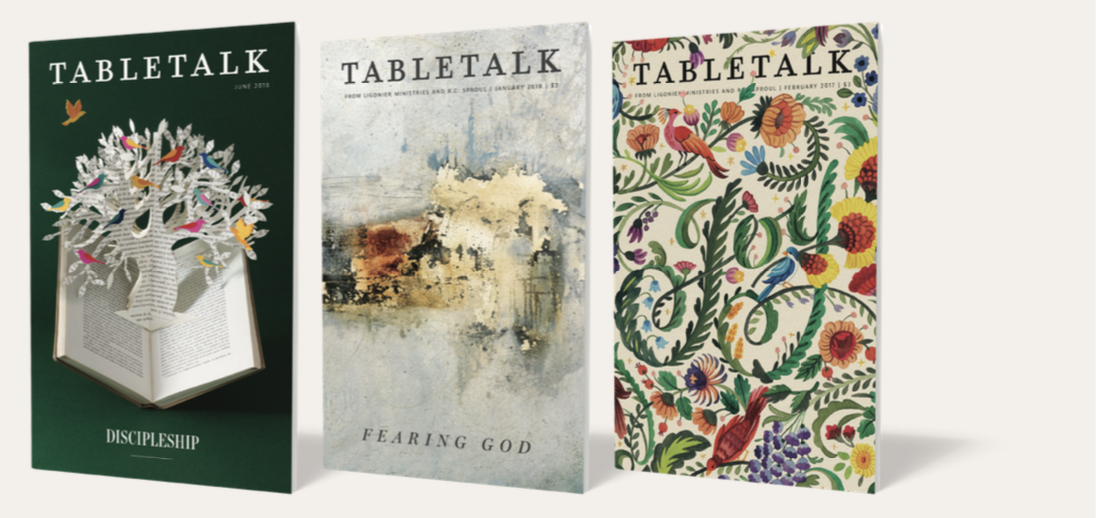
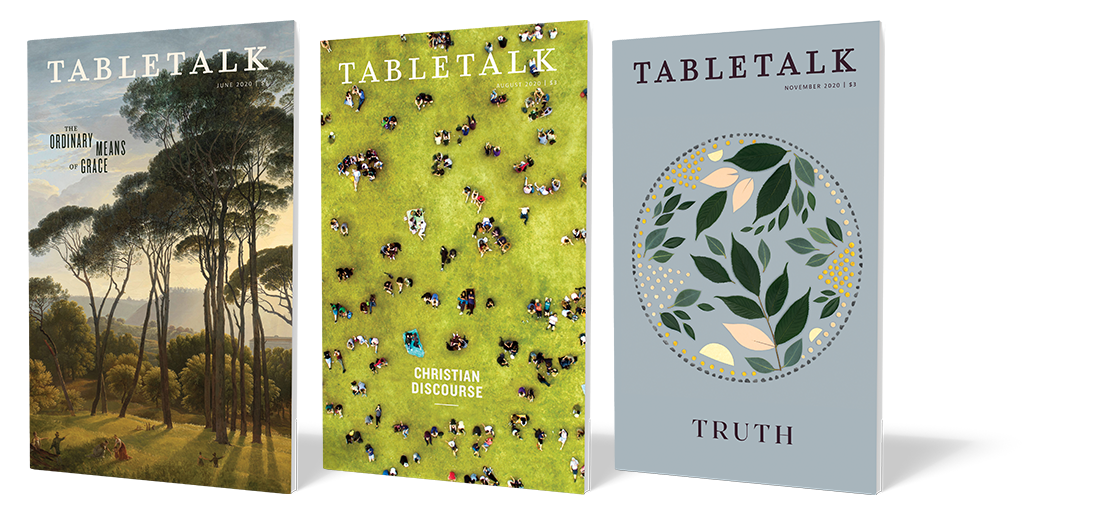
feat(images): update all images to 2020 revision

diff --git a/src/sections/gather-01.tsx b/src/sections/gather-01.tsx
@@ -22,7 +22,7 @@ const IndexPage = () => (
             }
           }
         }
-        ConferenceSeattle: file(relativePath: { eq: "ConferenceSeattle.jpg" }) {
+        ConferenceSeattle: file(relativePath: { eq: "ConferenceSeattle.png" }) {
           childImageSharp {
             fluid(maxWidth: 500) {
               ...GatsbyImageSharpFluid_withWebp_noBase64
